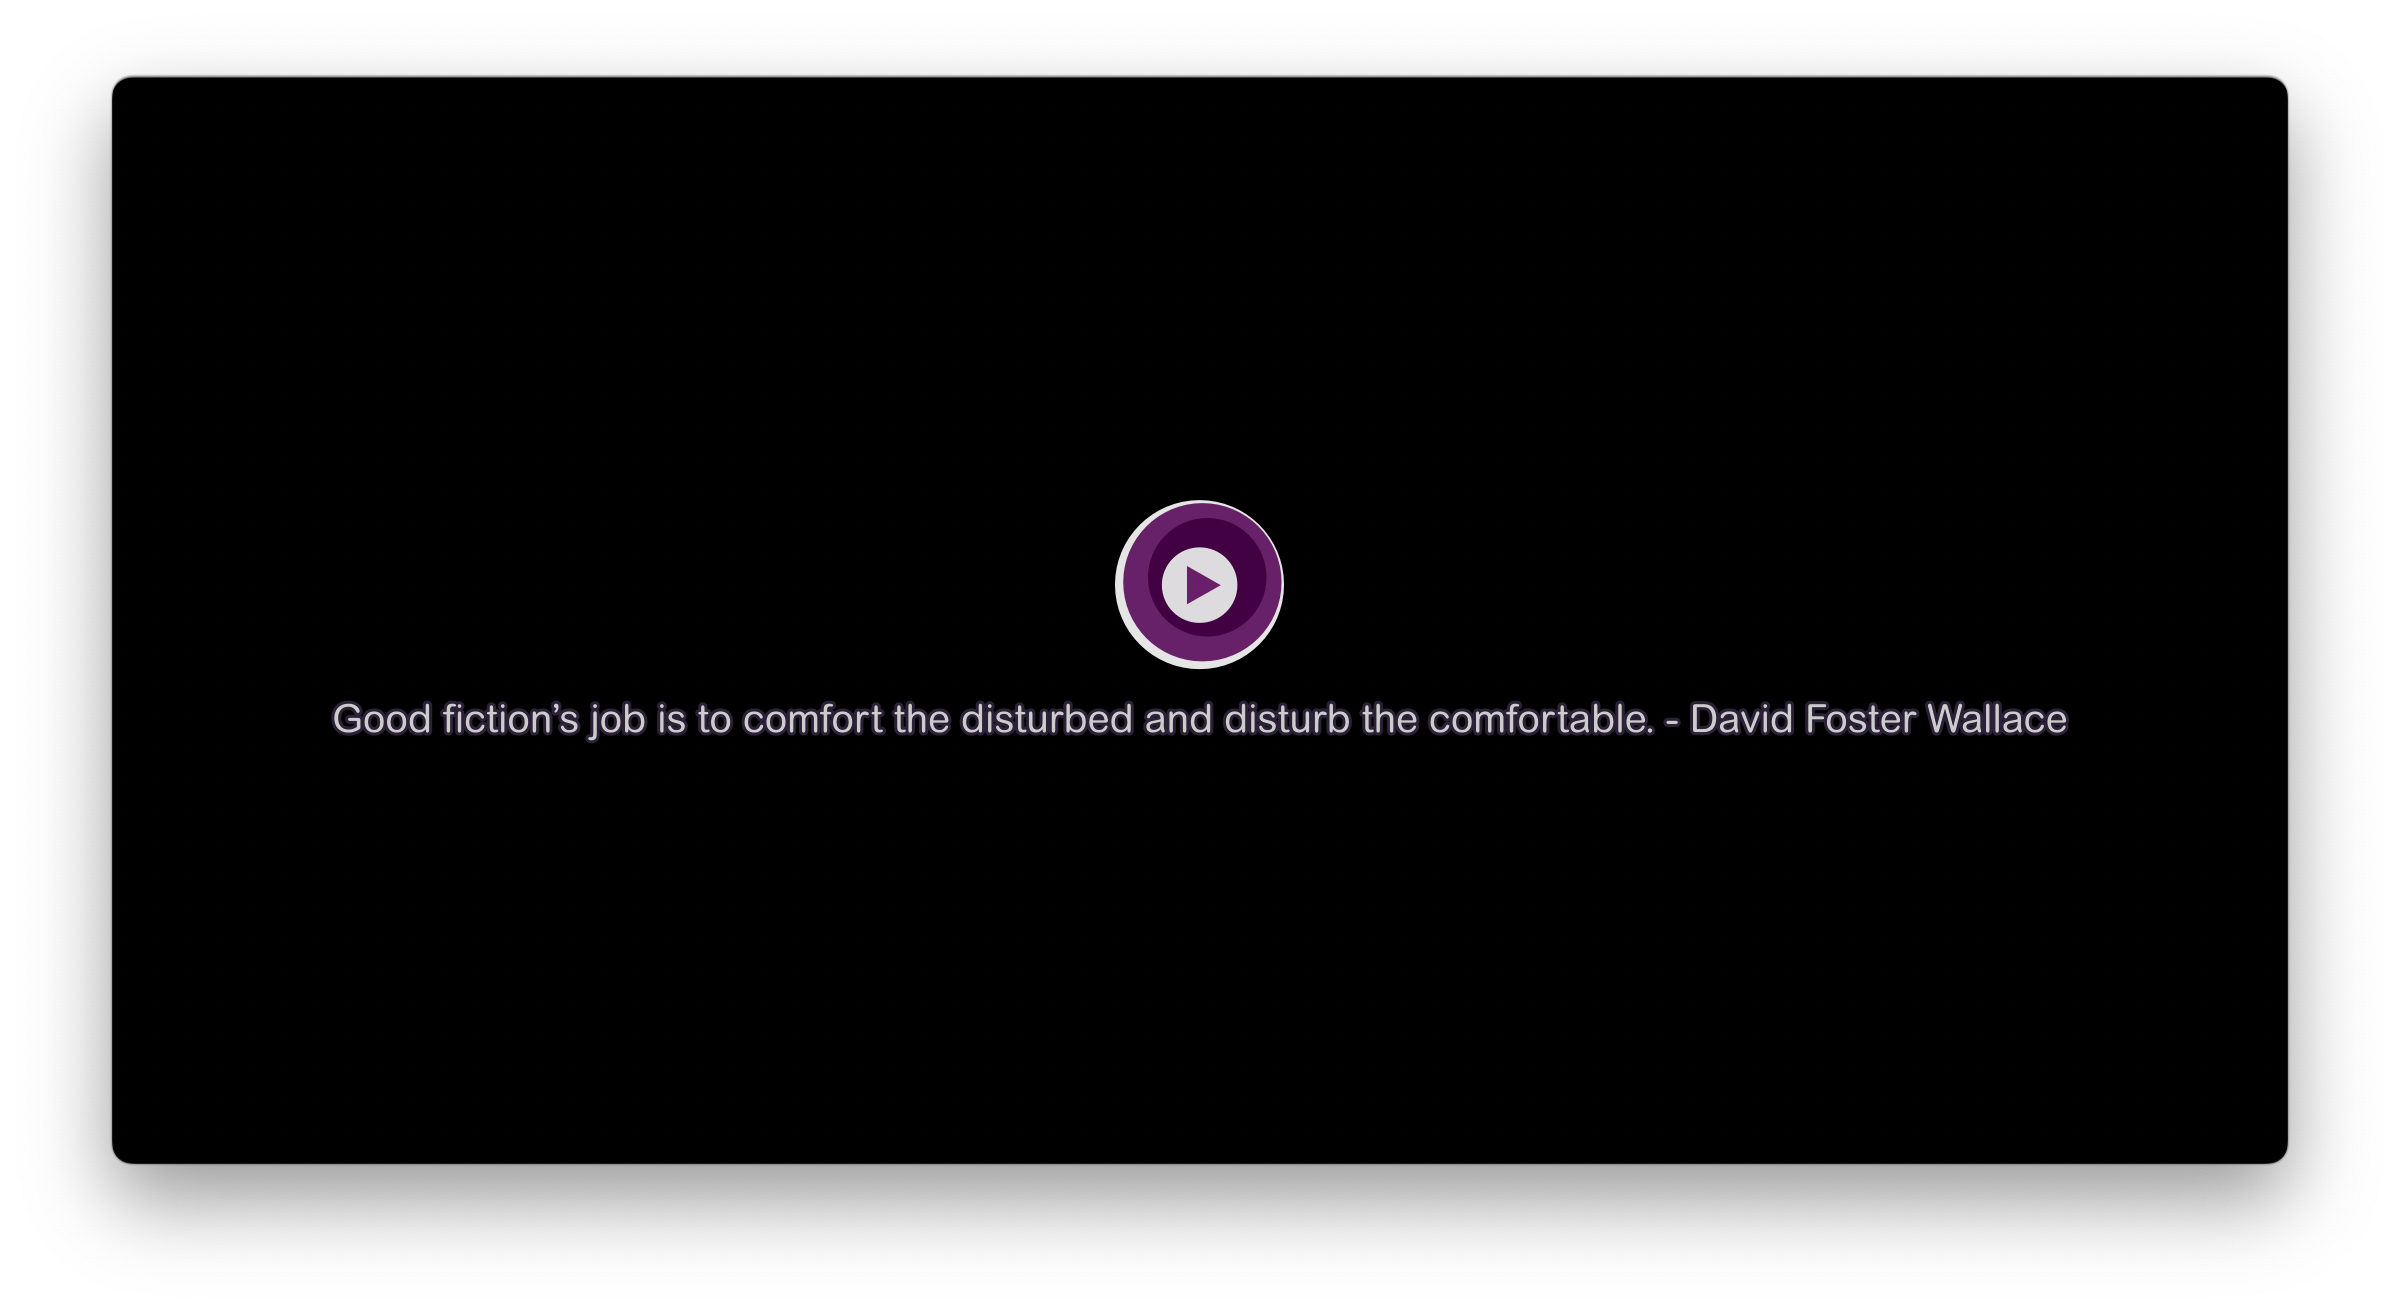
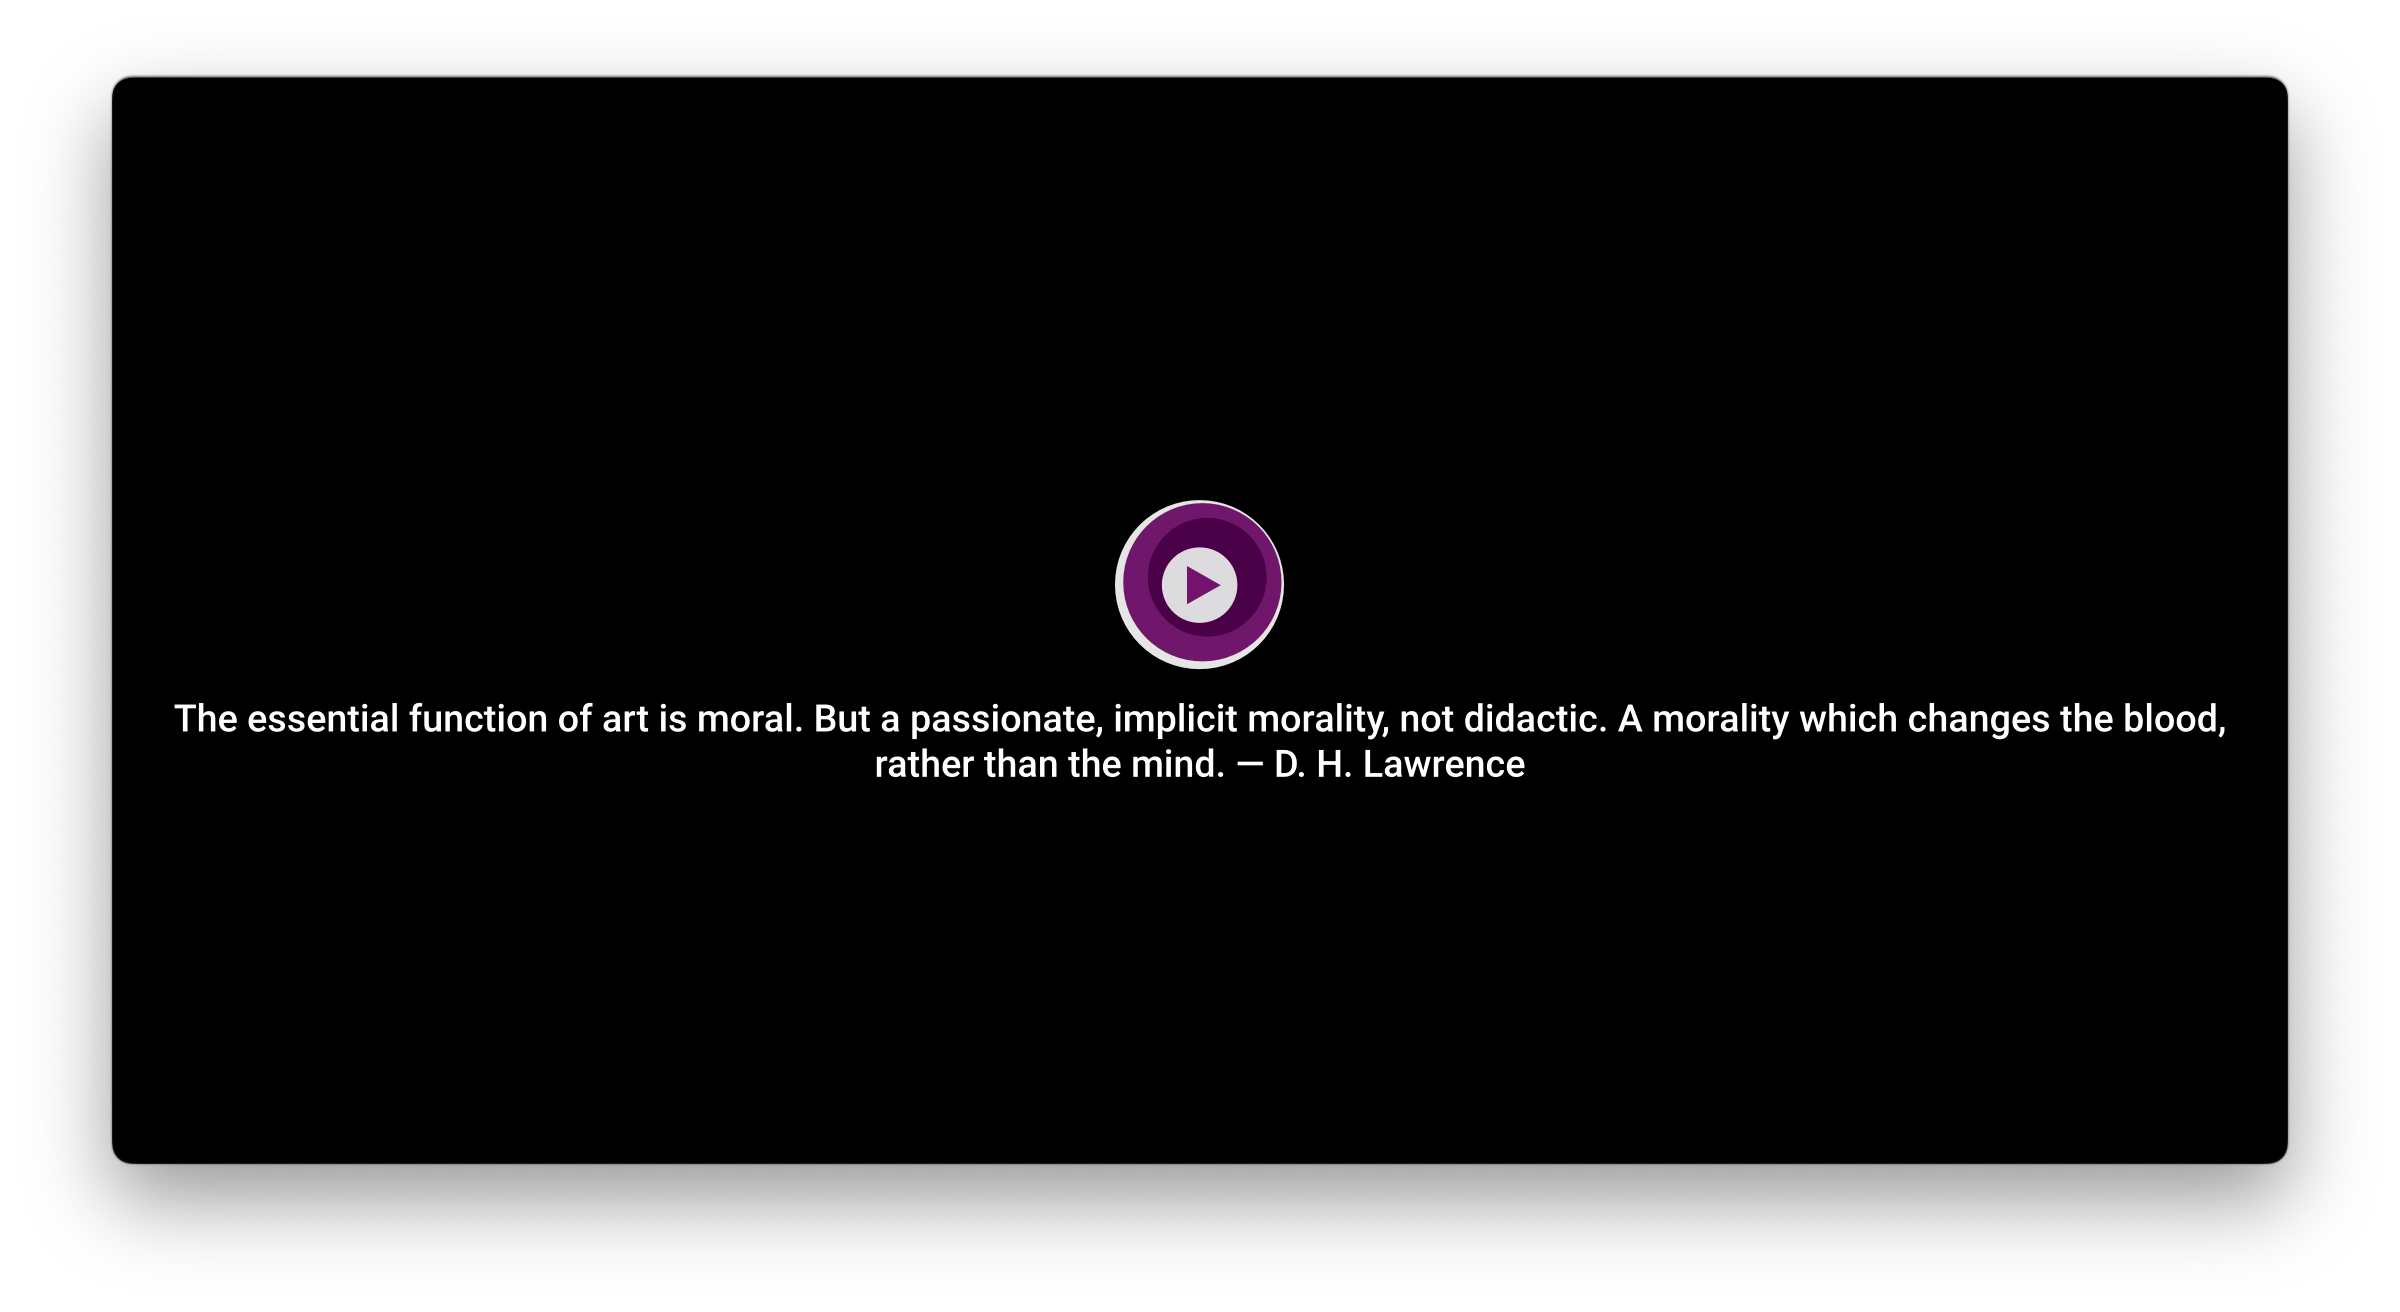
Change screenshots in `README.md`

Changed region(s): [[0.0625, 0.5312, 0.9375, 0.5938]]

diff --git a/README.md b/README.md
@@ -269,7 +269,7 @@ The original code is from [ModernX](https://github.com/cyl0/ModernX).
 > mirror the functionality of MPV's stock OSC while with a more modern-looking
 > interface.
 
-![img](https://github.com/cyl0/ModernX/blob/main/preview.png?raw=true)
+![img](modernx.png)
 
 I added a simple feature. In idle state, it shows a quote about writing and art.
 You can copy the text with `script-message copy-quote`, and also add your
